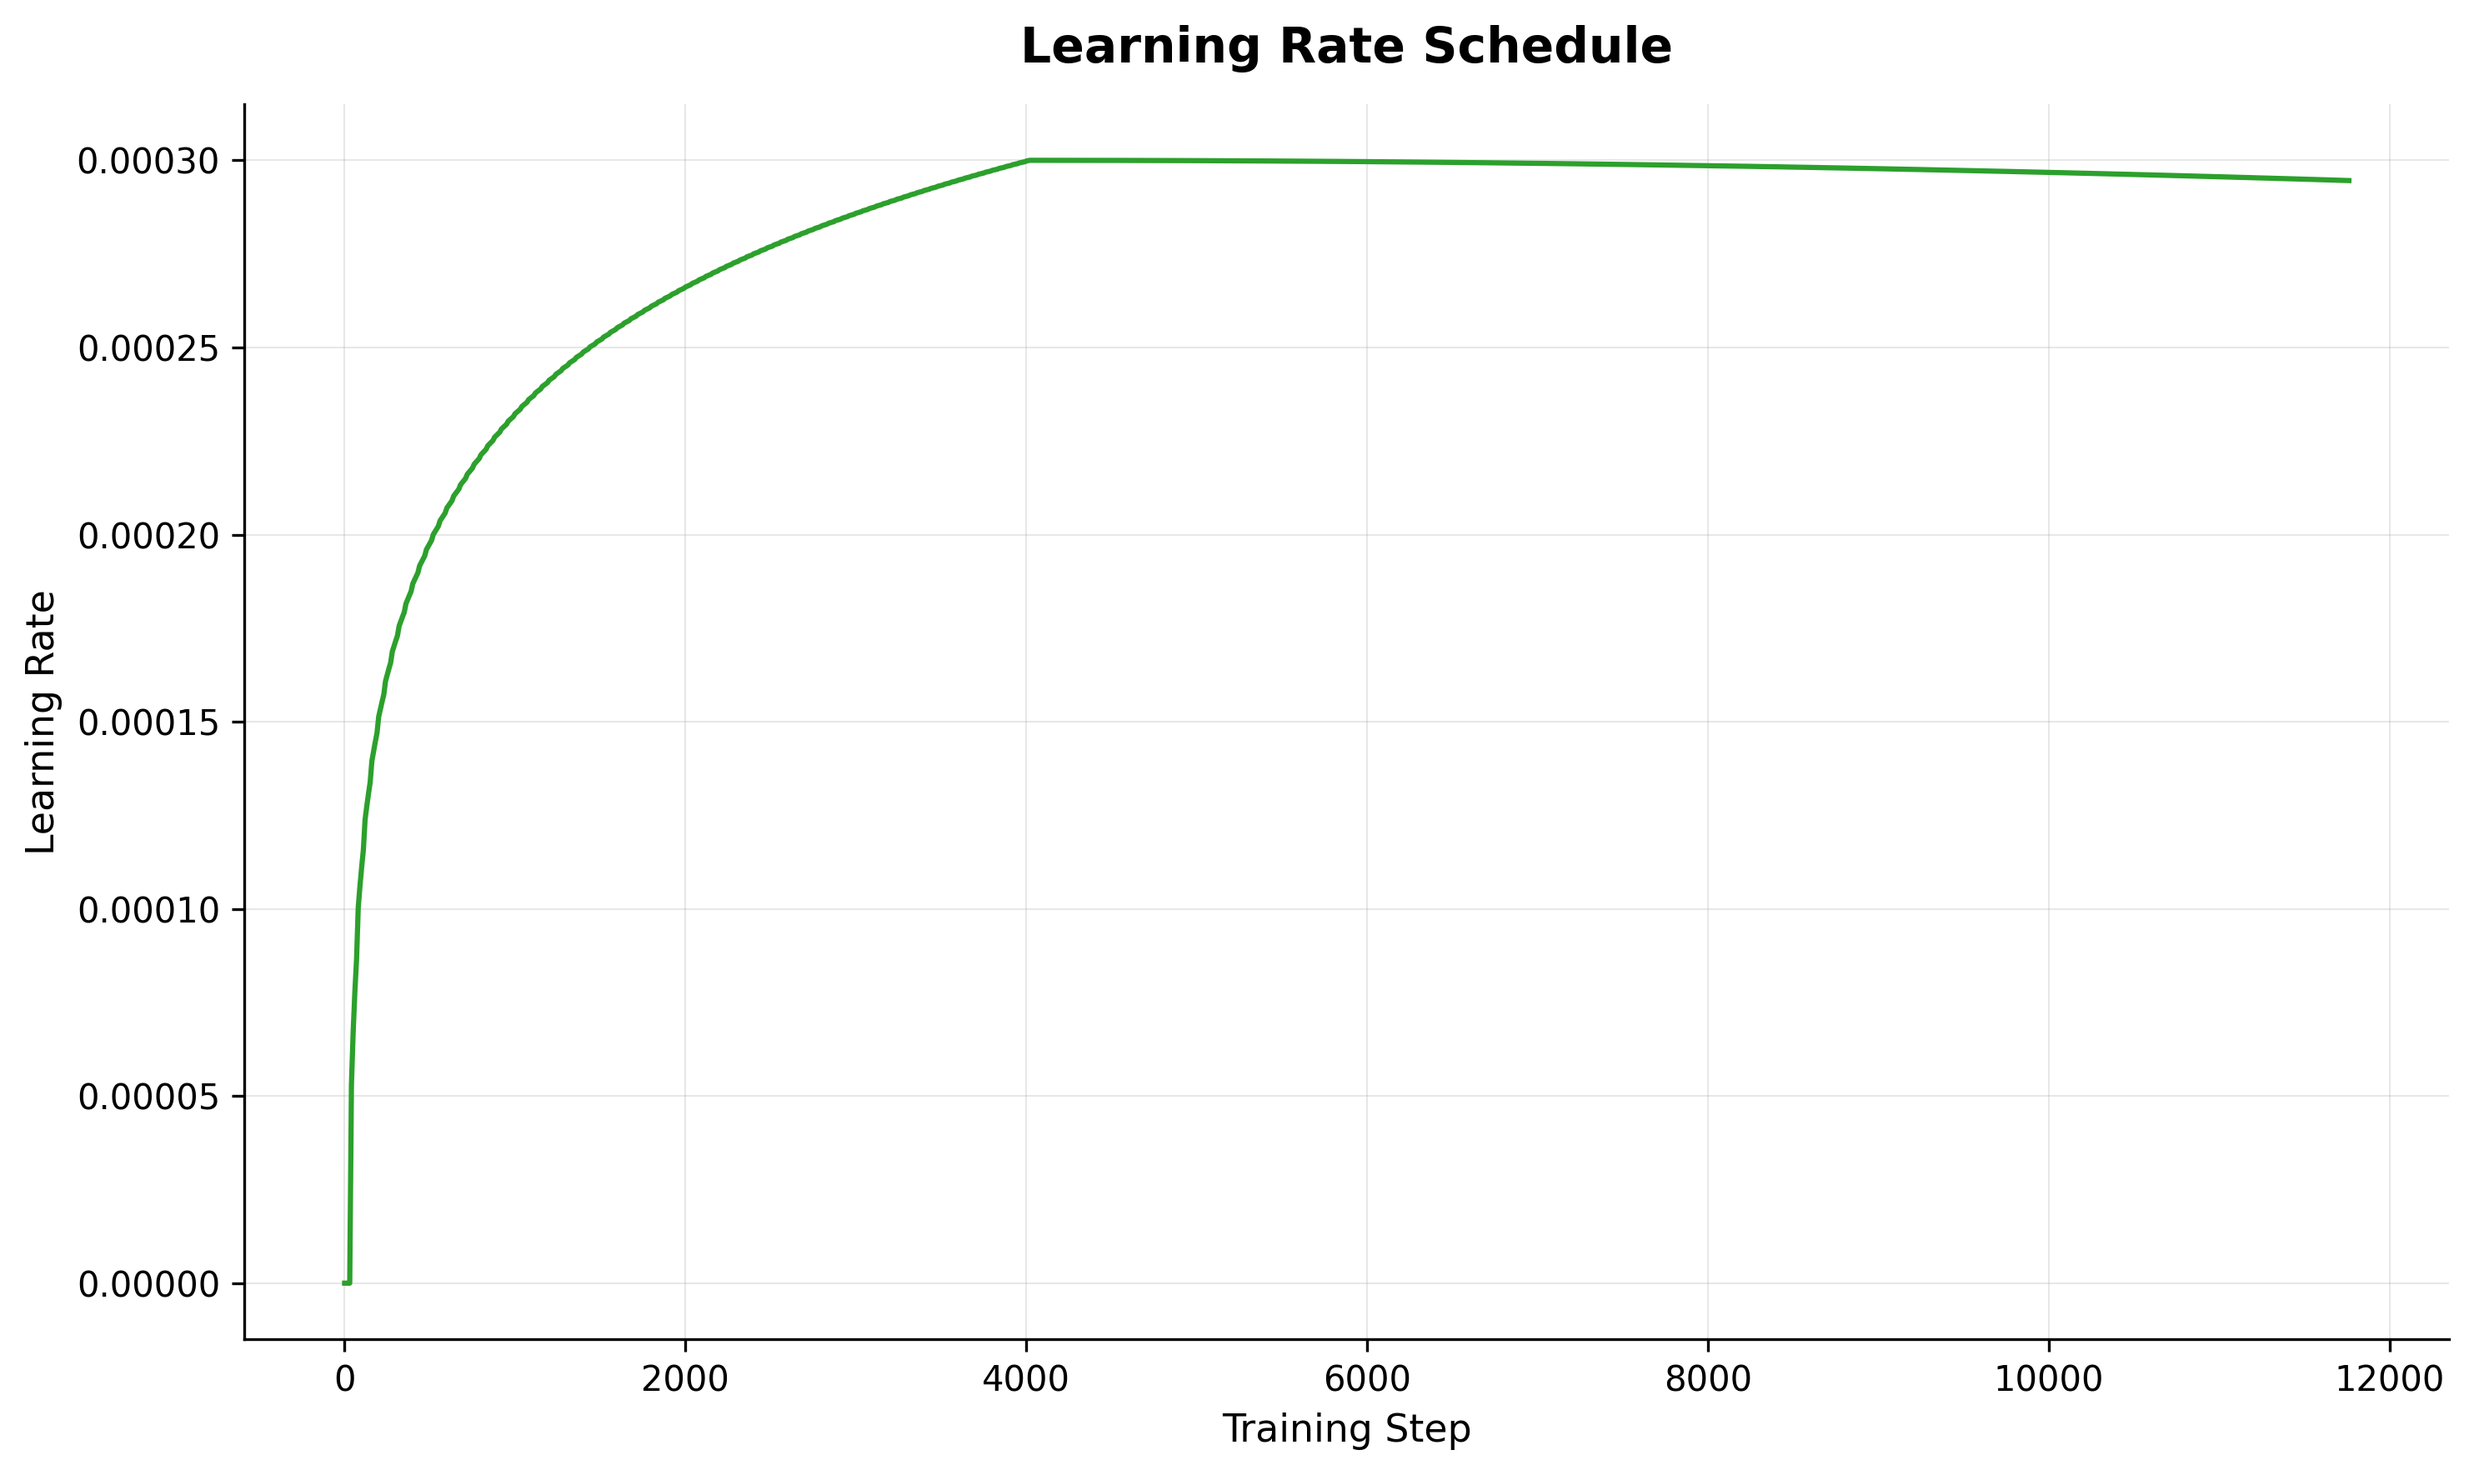
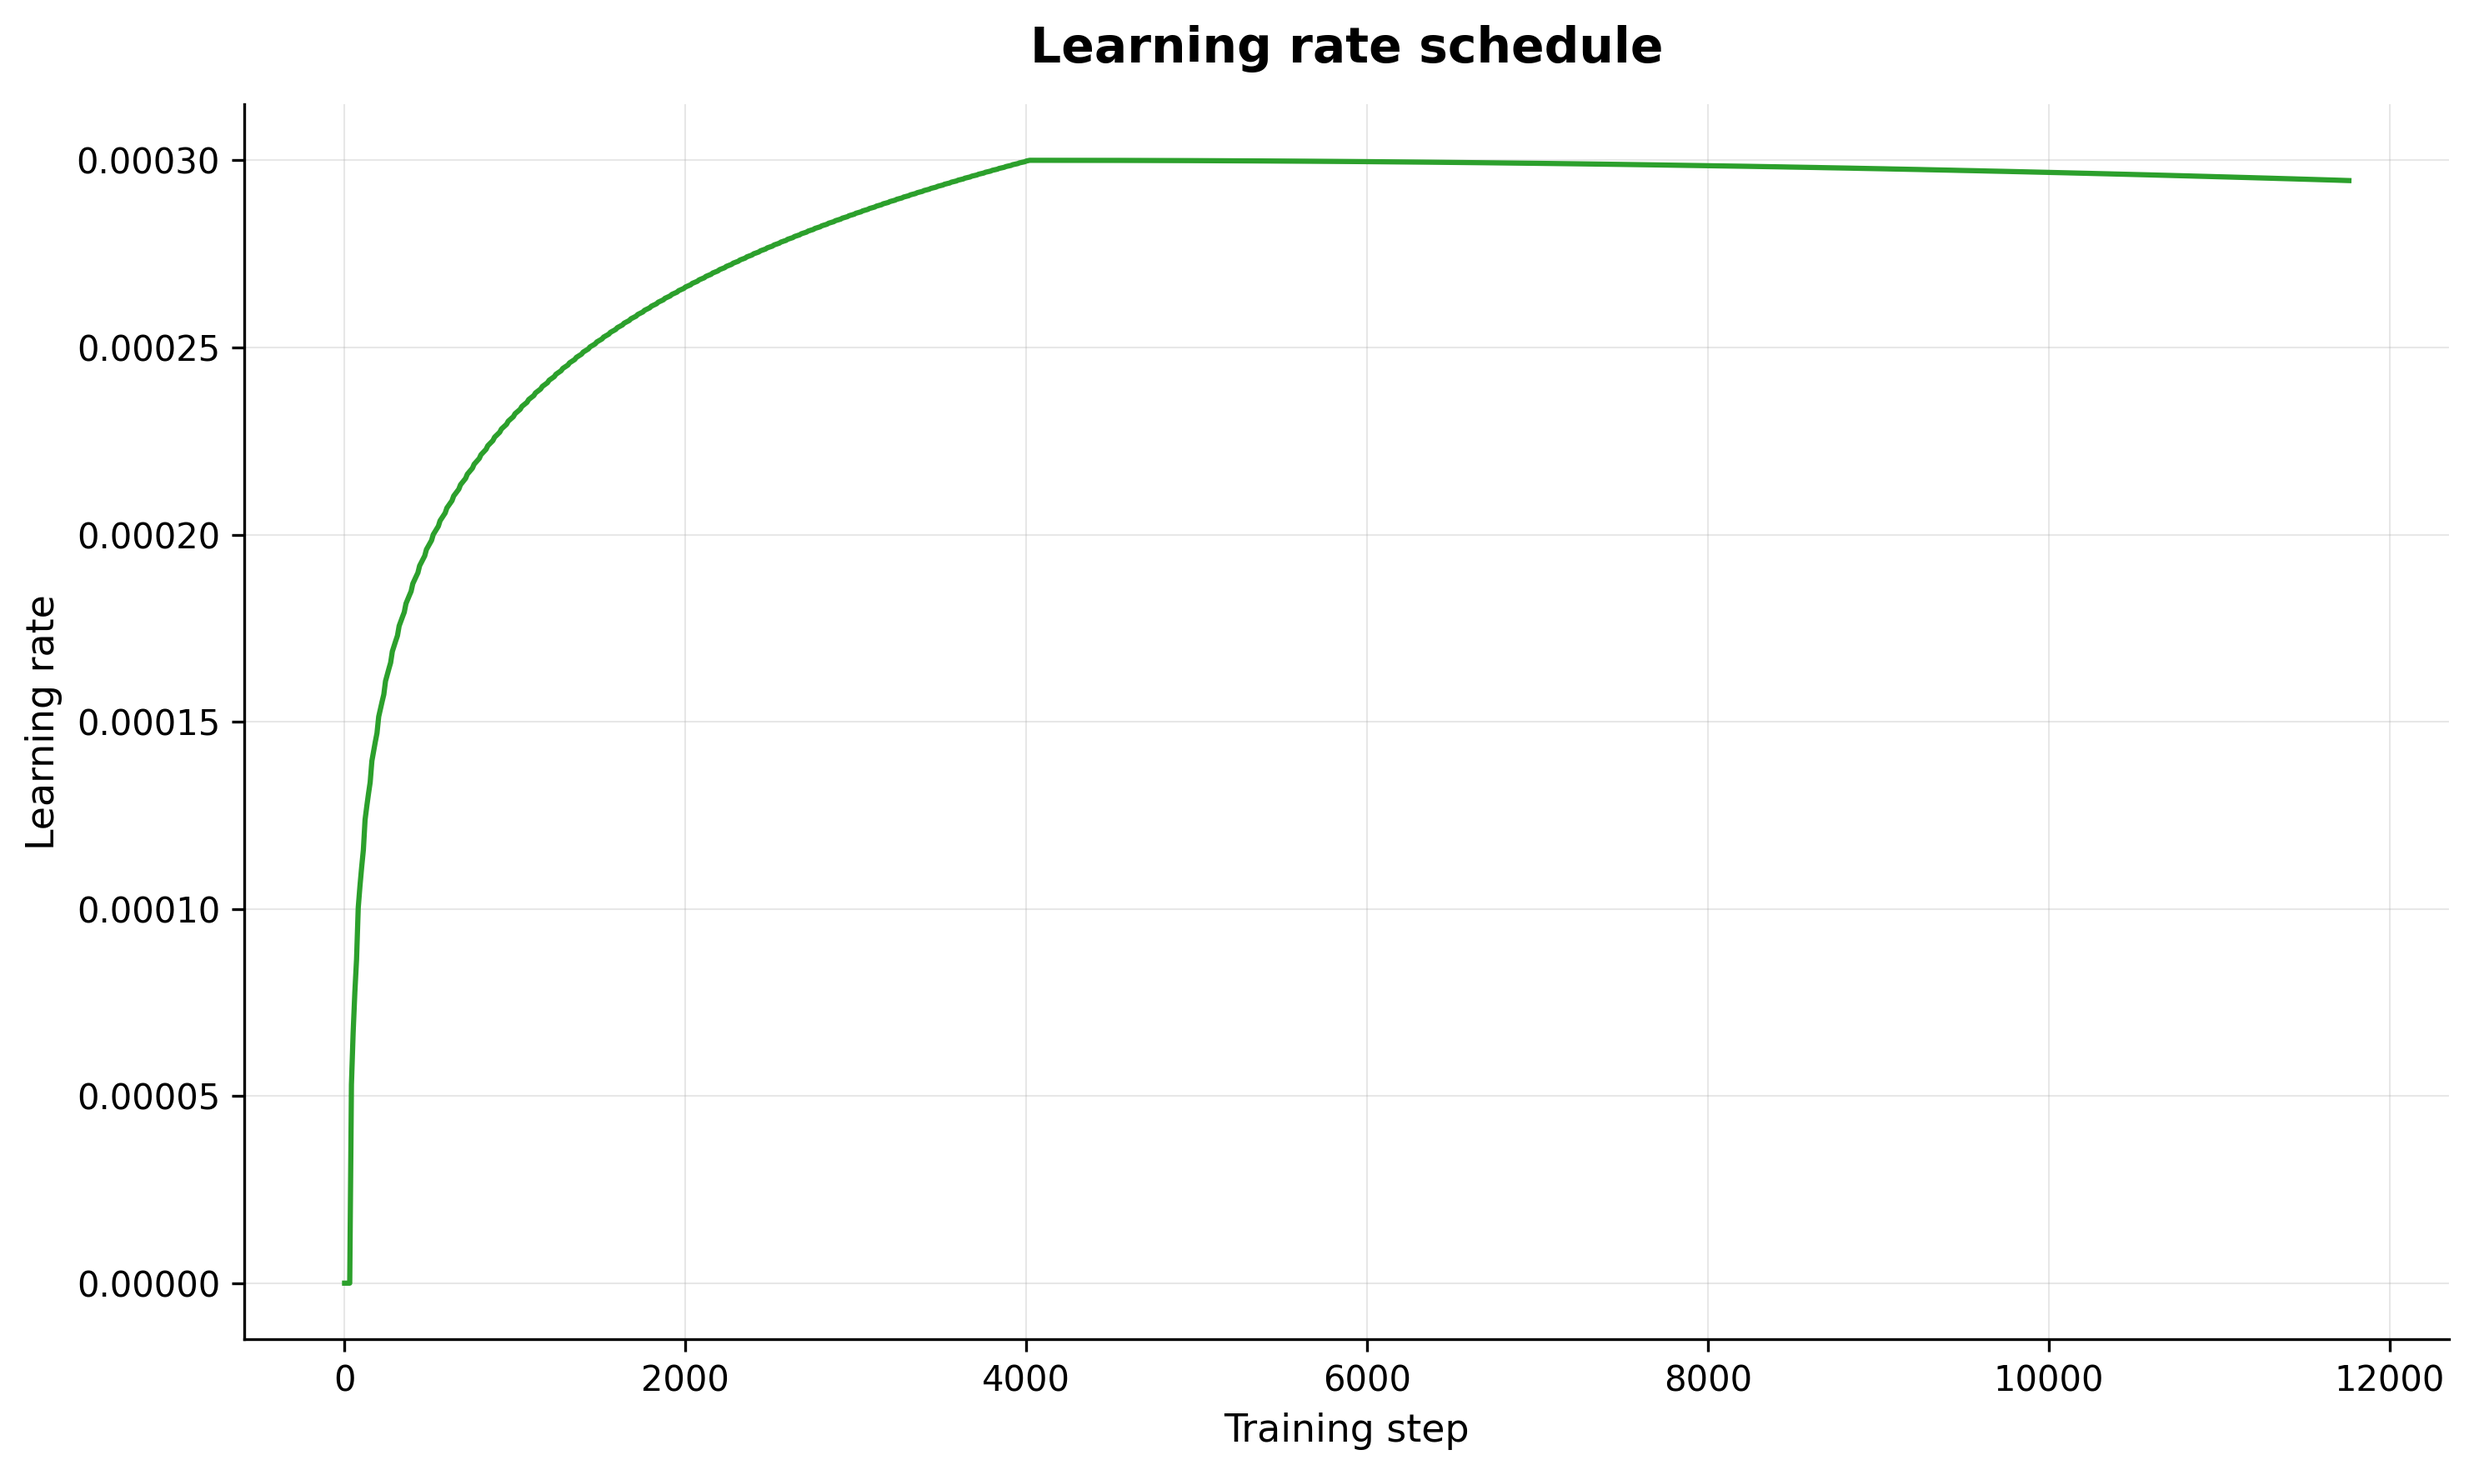
Apply sentence-style capitalization to all figure titles and labels
Update titles, axis labels, and legend entries across all 9 figures
in generate_figures.py and analyze_training.py to use sentence-style
capitalization per project formatting rules.

Changed region(s): [[0.403, 0.0, 0.6819, 0.0621], [0.0, 0.404, 0.031, 0.5904], [0.496, 0.9633, 0.5889, 0.9944]]

diff --git a/scripts/generate_figures.py b/scripts/generate_figures.py
@@ -89,11 +89,11 @@ TAXONOMY_KEYS = [
 ]
 
 TAXONOMY_LABELS = [
-    "Confident Fabrication",
-    "Plausible Blending",
-    "Outdated Information",
-    "Boundary Confusion",
-    "Accurate but Misleading",
+    "Confident fabrication",
+    "Plausible blending",
+    "Outdated information",
+    "Boundary confusion",
+    "Accurate but misleading",
     "Accurate",
     "Degenerate",
 ]
@@ -179,8 +179,8 @@ def plot_accuracy_comparison(data: dict, output_path: Path) -> None:
     ax.set_xticks(x)
     ax.set_xticklabels(labels, rotation=30, ha="right")
     ax.set_ylim(0, 22)
-    setup_axes(ax, "Accuracy Comparison Across Approaches",
-               "", "Mean Accuracy (%)")
+    setup_axes(ax, "Accuracy comparison across approaches",
+               "", "Mean accuracy (%)")
 
     # Inset axes for ALS-LM detail (near-zero value needs zoom)
     # Place in the empty headroom above all bars (max bar is ~14.3%, ylim is 22)
@@ -196,7 +196,7 @@ def plot_accuracy_comparison(data: dict, output_path: Path) -> None:
     ax_inset.set_xticklabels(["ALS-LM"], fontsize=7)
     ax_inset.set_ylabel("Accuracy (%)", fontsize=7)
     ax_inset.tick_params(labelsize=7)
-    ax_inset.set_title("ALS-LM Detail (0-2%)", fontsize=8, fontweight="bold")
+    ax_inset.set_title("ALS-LM detail (0-2%)", fontsize=8, fontweight="bold")
     ax_inset.text(0, als_lm_acc + 0.05, f"{als_lm_acc:.1f}%",
                   ha="center", va="bottom", fontsize=7, fontweight="bold")
     ax_inset.spines["top"].set_visible(False)
@@ -232,8 +232,8 @@ def plot_failure_taxonomy(data: dict, output_path: Path) -> None:
     labels = [DISPLAY_NAMES[key] for key in APPROACH_ORDER]
     ax.set_xticks(x)
     ax.set_xticklabels(labels, rotation=30, ha="right")
-    setup_axes(ax, "Failure Taxonomy Distribution by Approach",
-               "", "Number of Responses (out of 160)")
+    setup_axes(ax, "Failure taxonomy distribution by approach",
+               "", "Number of responses (out of 160)")
 
     ax.legend(ncol=1, loc="upper left", bbox_to_anchor=(1.02, 1),
               fontsize=8, framealpha=0.9, borderaxespad=0)
@@ -272,13 +272,13 @@ def plot_retrieval_decomposition(data: dict, output_path: Path) -> None:
 
     # Bottom segment: retrieval failures (red)
     bars_ret = ax.bar(x, retrieval_counts, bar_width,
-                      color="#d62728", label="Retrieval Failures",
+                      color="#d62728", label="Retrieval failures",
                       edgecolor="white", linewidth=0.5)
 
     # Top segment: generation failures (blue)
     bars_gen = ax.bar(x, generation_counts, bar_width,
                       bottom=retrieval_counts,
-                      color="#1f77b4", label="Generation Failures",
+                      color="#1f77b4", label="Generation failures",
                       edgecolor="white", linewidth=0.5)
 
     # Annotate each segment with percentage (skip if < 5% of total)
@@ -305,8 +305,8 @@ def plot_retrieval_decomposition(data: dict, output_path: Path) -> None:
 
     ax.set_xticks(x)
     ax.set_xticklabels(labels, rotation=30, ha="right")
-    setup_axes(ax, "Retrieval vs Generation Failures by RAG Configuration",
-               "", "Number of Wrong Answers")
+    setup_axes(ax, "Retrieval vs generation failures by RAG configuration",
+               "", "Number of wrong answers")
 
     ax.legend(loc="upper right", fontsize=9, framealpha=0.9)
 

diff --git a/scripts/analyze_training.py b/scripts/analyze_training.py
@@ -278,7 +278,7 @@ def plot_loss_curves(
     train_losses = [s["loss"] for s in steps]
     ax.plot(
         train_steps, train_losses,
-        color=TRAIN_COLOR, linewidth=1.2, alpha=0.8, label="Train Loss",
+        color=TRAIN_COLOR, linewidth=1.2, alpha=0.8, label="Train loss",
     )
 
     # Validation loss at validation intervals
@@ -287,7 +287,7 @@ def plot_loss_curves(
     ax.plot(
         val_steps, val_losses,
         color=VAL_COLOR, linewidth=1.5, marker="o", markersize=4,
-        label="Val Loss",
+        label="Val loss",
     )
 
     # Epoch markers
@@ -295,7 +295,7 @@ def plot_loss_curves(
     y_max = max(all_losses) if all_losses else 10.0
     _add_epoch_markers(ax, steps, y_max)
 
-    _setup_axes(ax, "Training and Validation Loss", "Training Step", "Loss")
+    _setup_axes(ax, "Training and validation loss", "Training step", "Loss")
     ax.legend(loc="upper right", fontsize=10, framealpha=0.9)
 
     fig.tight_layout()
@@ -317,12 +317,12 @@ def plot_perplexity_gap(
     ax.plot(
         val_steps, train_ppl,
         color=TRAIN_COLOR, linewidth=1.5, marker="s", markersize=4,
-        label="Train Perplexity",
+        label="Train perplexity",
     )
     ax.plot(
         val_steps, val_ppl,
         color=VAL_COLOR, linewidth=1.5, marker="o", markersize=4,
-        label="Val Perplexity",
+        label="Val perplexity",
     )
 
     # Shaded region between curves to visualize the gap
@@ -332,8 +332,8 @@ def plot_perplexity_gap(
     )
 
     _setup_axes(
-        ax, "Train vs Validation Perplexity",
-        "Training Step", "Perplexity",
+        ax, "Train vs validation perplexity",
+        "Training step", "Perplexity",
     )
     ax.legend(loc="upper right", fontsize=10, framealpha=0.9)
 
@@ -358,8 +358,8 @@ def plot_lr_schedule(
     )
 
     _setup_axes(
-        ax, "Learning Rate Schedule",
-        "Training Step", "Learning Rate",
+        ax, "Learning rate schedule",
+        "Training step", "Learning rate",
     )
 
     fig.tight_layout()
